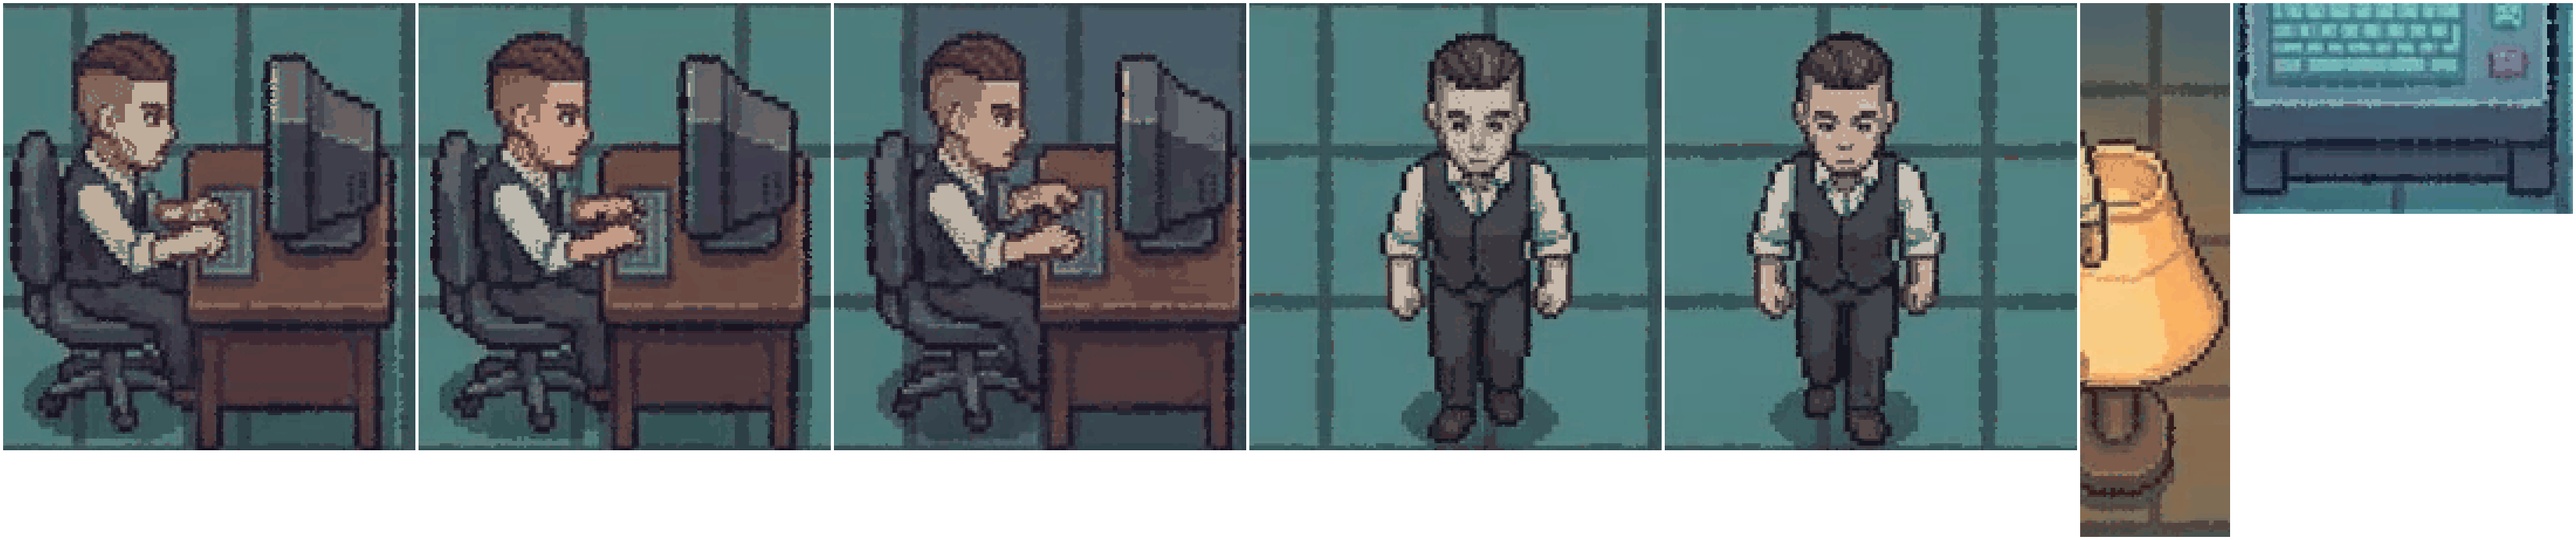
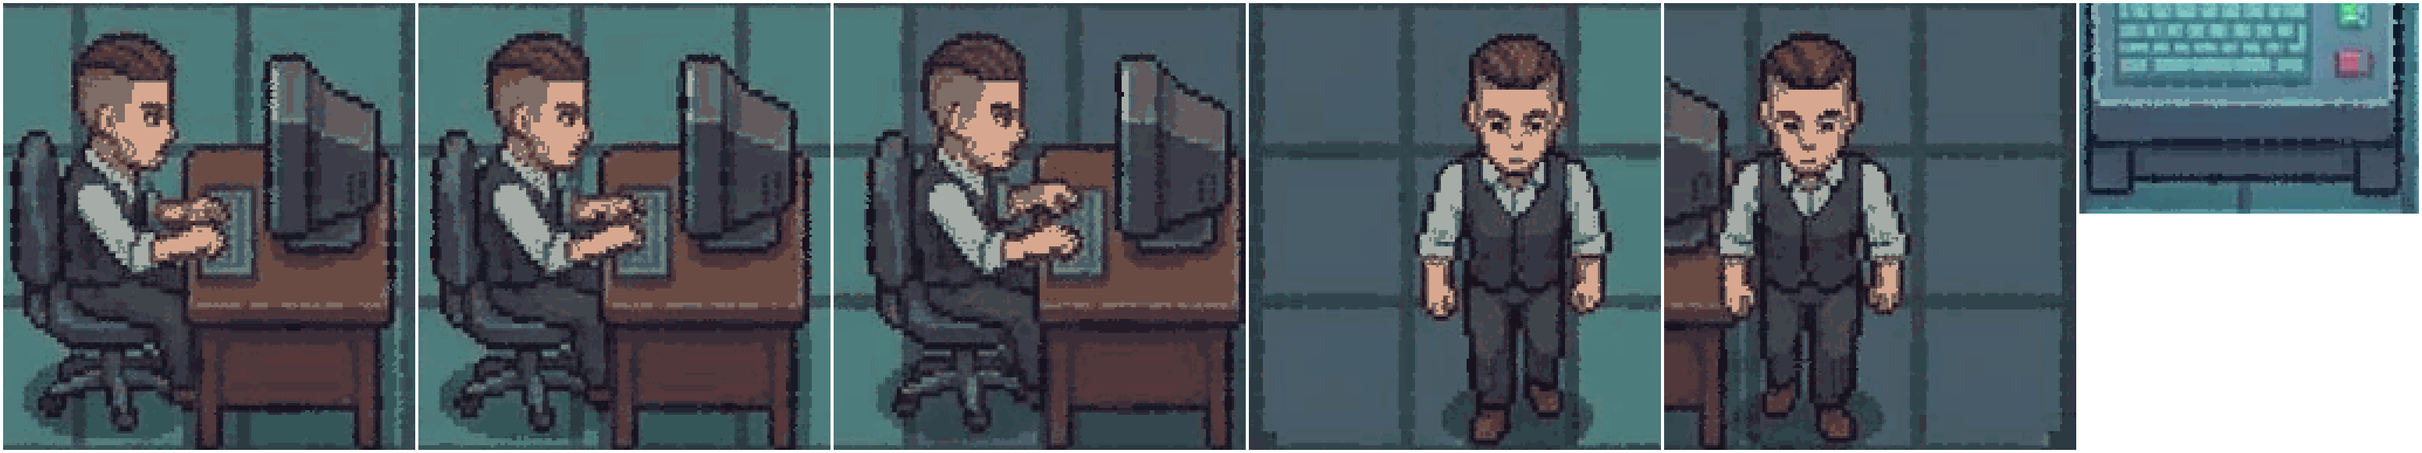
Office sample scene: round 21 (light-direction fix + palette stability) - t-59
Fixes both gaps the round-20 critic pass named:

1. MECHANICAL FLOOR (automatic send-back per t-54): the composed room
   corner mixed two light sources - character+desk from
   sheet-agent-anims-a.jpg's cool cyan register, a floor lamp from
   sheet-agent-anims-b.jpg's near-black-to-warm-amber register glued
   on top. Fixed by re-sourcing idle from the SAME row of the SAME
   sheet as typing (cast/sheet-agent-anims-a.jpg row 2, columns 0 and
   7 - the character standing before/after sitting) instead of
   sheet-agent-anims-b.jpg, and dropping the mismatched lamp entirely
   rather than re-matching it. Everything in the atlas now traces to
   one sheet, one row - one light source by construction.

2. EXTRACTION FIDELITY / palette drift: idle-0 and idle-1's skin tone
   visibly shifted frame to frame (independent per-frame quantize
   letting the same true color snap to different output values).
   Fixed with a SHARED palette: all 5 character frames are combined
   into one image, one 40-color palette is derived from that, and
   every frame quantizes against the same palette. Also: the wall
   terminal's red/green status-light pixels were being erased by the
   quantize regardless of color budget (tested 40/64/96, all merged
   them away - each cluster is under 0.4% of the crop). Fixed by
   exempting those two precisely-located regions from the quantize
   step and pasting back their true despeckled source colors.
[…]

diff --git a/hub/public/office-sample.html b/hub/public/office-sample.html
@@ -35,14 +35,14 @@
   <b>BUREAU</b><span class="sep">·</span>office · sample scene (t-59)<span class="r">one desk · one extracted agent sprite · one corner · static, no live events</span>
 </header>
 <main>
-  <div id="stage-wrap"><canvas id="stage" width="740" height="684" style="width:555px;height:513px"></canvas></div>
+  <div id="stage-wrap"><canvas id="stage" width="983" height="573" style="width:700px;height:408px"></canvas></div>
   <div class="controls">
     <button id="btn-idle" class="on">Idle</button>
     <button id="btn-typing">Typing</button>
     <span class="hint">idle = the "idle" heartbeat verb · typing = the "editing" verb (docs/protocol.md)</span>
   </div>
   <details open>
-    <summary>About this sample — round 20: the extraction pivot (LAW amendment, boss ruling 2026-08-16T13:12)</summary>
+    <summary>About this sample — round 21: light-direction fix + palette stability (extraction era, started round 20)</summary>
     <div class="body" id="about"></div>
   </details>
 </main>
@@ -62,15 +62,18 @@ let lastSwap = 0;
 
 function layout() {
   // Composed room corner: the extracted desk/character cell on the left,
-  // the extracted floor lamp on the right (floor-aligned), the extracted
-  // wall terminal above it. All three are separate crops from the owned
-  // source sheets; this function is the only place their SCREEN POSITIONS
-  // are decided — no pixel inside any of them was redrawn or invented.
-  const stageH = 684;
+  // the extracted wall terminal above/right of it. Round 21 drops the
+  // round-20 floor lamp (sourced from a different sheet/row with a
+  // mismatched light register — the critic's named mechanical-floor
+  // violation) rather than re-matching it; both remaining pieces now come
+  // from the SAME row of the SAME sheet as the character, so there is one
+  // light source by construction, not by after-the-fact color correction.
+  // This function is the only place their SCREEN POSITIONS are decided —
+  // no pixel inside either of them was redrawn or invented.
+  const stageH = 573;
   return {
-    char: { x: 0, y: stageH - FRAMES.sprites['idle-0'].h },
-    lamp: { x: 548, y: stageH - FRAMES.sprites.lamp.h },
-    wallmon: { x: 560, y: 20, scale: 0.5 }
+    char: { x: 0, y: 0 },
+    wallmon: { x: 548, y: 20, scale: 1 }
   };
 }
 
@@ -90,7 +93,6 @@ function render() {
   const st = FRAMES.states[state];
   const name = st.frames[frameIdx % st.frames.length];
   drawSprite(name, L.char.x, L.char.y);
-  drawSprite('lamp', L.lamp.x, L.lamp.y);
   drawSprite('wallmon', L.wallmon.x, L.wallmon.y, L.wallmon.scale);
 }
 
@@ -137,30 +139,34 @@ Promise.all([
 render();
 
 document.getElementById('about').innerHTML = `
-<p><b>Direction change, mid-loop.</b> Rounds 1-19 on this mission hand-drew every pixel on an HTML canvas, judged round after round against the Sea of Stars craft references under <code>projects/bureau/references/office/crops/</code> and the root scene captures. On 2026-08-16T13:12 the boss ruled THE LAW amended (t-54 log): the boss-generated sheets under <code>references/office/</code> (<code>scenes/</code>, <code>props/</code>, <code>cast/</code>, <code>fx/</code> — 31 sheets, style-locked, his own pick) are <b>owned source material</b>, not look-only references. From round 20 on, builders <b>extract</b> — cut, clean, quantize, atlas — instead of redrawing what a sheet already covers. Redrawing available material is now an automatic send-back. Sea of Stars stays reference/craft-calibration-only and still never ships.</p>
+<p><b>Direction change, mid-loop (round 20).</b> Rounds 1-19 on this mission hand-drew every pixel on an HTML canvas, judged round after round against the Sea of Stars craft references under <code>projects/bureau/references/office/crops/</code> and the root scene captures. On 2026-08-16T13:12 the boss ruled THE LAW amended (t-54 log): the boss-generated sheets under <code>references/office/</code> (<code>scenes/</code>, <code>props/</code>, <code>cast/</code>, <code>fx/</code> — 31 sheets, style-locked, his own pick) are <b>owned source material</b>, not look-only references. From round 20 on, builders <b>extract</b> — cut, clean, quantize, atlas — instead of redrawing what a sheet already covers. Redrawing available material is now an automatic send-back. Sea of Stars stays reference/craft-calibration-only and still never ships.</p>
 
-<p><b>What this round actually is.</b> Every pixel in <code>office-sample-assets/atlas.png</code> is a direct crop from <code>projects/bureau/references/office/cast/sheet-agent-anims-a.jpg</code> and <code>sheet-agent-anims-b.jpg</code> — no canvas fillRect, no hand-authored shading, no redrawn silhouette. The prior 19 rounds' entire drawing engine was deleted this round; the page now loads a small atlas PNG plus a frame table (<code>office-sample-assets/frames.json</code>) and plays it back — the "data-driven animation, frame tables played by a runtime renderer" convention from t-54's engine-outcomes ruling, now for real rather than as an aspiration.</p>
+<p><b>Round 21: fixing what the round-20 critic pass found.</b> Round 20's fresh-eyes critic pass confirmed the extraction technique itself was genuine (near-pixel-match to source, no redrawing) but sent it back on two counts: (1) a <b>mechanical-floor automatic send-back</b> — the composed room corner mixed two different light sources (the character+desk from <code>sheet-agent-anims-a.jpg</code>'s cool cyan register, a floor lamp from <code>sheet-agent-anims-b.jpg</code>'s near-black-to-warm-amber register), violating t-54's own "one consistent light direction per scene" floor; (2) extraction-fidelity color drift — the idle frames' skin tone visibly shifted between idle-0 and idle-1 (a quantize-pipeline instability, not a deliberate choice), and the wall terminal's red/green status-light pixels were erased entirely by the palette quantize. All three fixed this round, detailed below.</p>
+
+<p><b>Every pixel in <code>office-sample-assets/atlas.png</code> is still a direct crop</b> — no canvas fillRect, no hand-authored shading, no redrawn silhouette. Round 21 goes further than round 20 on sourcing discipline: everything now comes from ONE sheet (<code>cast/sheet-agent-anims-a.jpg</code>), not two.</p>
 
 <p><b>Per-source citations (extraction fidelity: candidate vs. exact sheet region, matched zoom):</b></p>
 <ul>
 <li><b>Typing loop (3 frames):</b> <code>cast/sheet-agent-anims-a.jpg</code>, row 2 ("AGENT TYPING LOOP" label baked into the sheet itself), grid cells at column index 1, 2, 3 of that sheet's 8&times;3 176&times;256 grid, cropped x=176-704 / y=321-512 in the 1408&times;768 source — the row's top 65px is trimmed off (was y=256-512) because it carried a bleeding leg/foot fragment from the walk row directly above: the sheet's own row spacing overlaps slightly, a known artifact (PROMPTS.md's own flaw note on this sheet), not something the crop introduced. This is the exact desk unit the boss generated: chair, desk, CRT monitor, and the seated agent, together, already in one continuous piece of art — nothing about the desk was separately sourced or invented.</li>
-<li><b>Idle loop (2 frames):</b> <code>cast/sheet-agent-anims-b.jpg</code>, row 2 (front-facing standing loop), grid cells at column index 1, 2 of the same 8&times;3 layout, same crop bounds and same leg-bleed trim as the typing sheet (x=176-528, y=321-512). Same character design as the typing sheet (short hair, waistcoat, rolled sleeves, tie) confirmed by side-by-side comparison before cropping.</li>
-<li><b>Floor lamp prop:</b> <code>cast/sheet-agent-anims-b.jpg</code>, row 3 (the back-facing loop), the lit lamp standing beside the sheet's own last back-facing frame (native crop x=1168-1232, y=540-768).</li>
-<li><b>Wall terminal prop:</b> <code>cast/sheet-agent-anims-a.jpg</code>, the small wall-mounted keypad/CRT centered above the row boundary between the walk row and the typing row (native crop x=490-635, y=0-90).</li>
+<li><b>Idle loop (2 frames) — RESOURCED this round:</b> <code>cast/sheet-agent-anims-a.jpg</code>, the SAME row 2 as typing, same y-trim (321-512), column index 0 (standing, before sitting) and column index 7 (standing again, after — the desk's own edge is visible at frame-left, a nice room-corner continuity cue). Round 20 had sourced idle from <code>sheet-agent-anims-b.jpg</code> instead — a different sheet with a different light register, which is what produced round 20's flagged seam. Pulling idle from the same row as typing means idle and typing now share one light source by construction, not by after-the-fact color-matching.</li>
+<li><b>Wall terminal prop:</b> <code>cast/sheet-agent-anims-a.jpg</code>, the small wall-mounted keypad/CRT centered above the row boundary between the walk row and the typing row (native crop x=490-635, y=0-90). Same sheet as the character — always was, this wasn't the round-20 mismatch.</li>
+<li><b>Dropped this round: the floor lamp.</b> Round 20's lamp came from <code>sheet-agent-anims-b.jpg</code> row 3, a back-facing loop with its own unrelated lighting — the actual source of the critic's named seam. No lamp prop sharing the character's own row/light source exists in the current sheet set, so it's dropped rather than re-matched. A future round can reintroduce room-corner lighting props once a same-row (or otherwise light-matched) source exists — noted here rather than silently dropped.</li>
 </ul>
 
-<p><b>Cleanup pass (not a redraw):</b> every crop above went through a JPEG-ringing despeckle (mode filter) and a 40-color median-cut palette quantize before a 3x nearest-neighbor upscale — repairing JPEG smear and flattening shading into real discrete bands, exactly the "repair JPEG-smeared edges, quantize palette" step THE LAW's pipeline names. No new pixel content was introduced; every output pixel maps to one of the source photo's own sampled colors. Measured: source crops carried 10,000-14,000 distinct JPEG-compression colors each (grepped with PIL's <code>getcolors()</code>); each cleaned frame now uses exactly 40.</p>
+<p><b>Cleanup pass (not a redraw), round 21 change — a SHARED palette:</b> round 20 quantized each character frame independently (40-color median-cut per frame), which let the same true skin tone snap to slightly different output values frame-to-frame — a visible color flicker the critic caught by direct pixel sampling. Round 21 fixes the root cause: all 5 character frames (3 typing + 2 idle) are concatenated into one combined image, a single 40-color palette is derived from THAT combined image, and every individual frame is quantized against that one shared palette — so the same source color always maps to the same output color, in every frame. Verified visually (idle-0/idle-1 face crops now read as the same warm tan, not a gray-vs-warm mismatch).</p>
 
-<p><b>Composition, not redraw:</b> the three extractions (desk unit, standing figure, lamp, wall terminal) are laid out on one canvas at fixed screen coordinates (see <code>layout()</code> in this page's own script) to read as a single corner. That layout decision — where each extracted piece sits on screen — is original; the pixels inside each piece are not.</p>
+<p><b>Wall terminal — accent-color preservation, round 21:</b> the two status-light pixel clusters (a green ready-light, a red alert-light — both real, present in the source photo, located by direct pixel scan for saturated red/green) were being erased by the palette quantize regardless of color budget (tested 40/64/96 colors — all three merged both clusters into the surrounding panel gray, since each cluster is under 0.4% of the crop's pixels and median-cut splits by population, not by visual importance). Fixed by exempting those two small, precisely-located regions from the quantize step and pasting back their true despeckled source colors directly — not inventing a color, just not lossily discarding the two accent pixels that were always there. Verified: both status lights are visibly colored in the shipped atlas.</p>
 
-<p><b>Named gap for the next round:</b> there is a visible hard color seam down the middle of the stage where the character crop (from <code>sheet-agent-anims-a/b.jpg</code>'s cooler teal grading) meets the lamp/wall-terminal crop (a slightly warmer grey grading from the same two sheets' other rows). Both halves are genuine extractions, but the two source rows weren't lit identically, so butting their backgrounds edge-to-edge reads as two rooms stitched together rather than one continuous corner. Fixing this the extraction way (not by repainting) is next round's job: either crop tighter so less of each prop's own background rides along, feather/matte the seam, or find a same-row prop to pair with the character instead of reaching across rows.</p>
+<p><b>Composition, not redraw:</b> the two remaining extractions (desk unit, wall terminal) are laid out on one canvas at fixed screen coordinates (see <code>layout()</code> in this page's own script) to read as a single corner. That layout decision — where each extracted piece sits on screen — is original; the pixels inside each piece are not.</p>
 
-<p><b>Open interpretation, flagged rather than assumed:</b> no sheet in the current set shows this character seated at the desk <i>without</i> typing (every "at desk" frame on the sheet already has hands mid-keystroke), so there is no owned-source "idle-at-desk" pose to extract. Mapping <code>idle</code> → the sheet's own standing-away-from-desk loop and <code>typing</code> → the sheet's own seated loop follows the actual verb split in <code>docs/protocol.md</code> (idle is idle, editing types) rather than forcing a desk-bound idle pose that would have to be invented. If the critic reads this as needing a genuine "seated, not typing" extraction instead, that's the next round's target — raising it here rather than picking silently.</p>
+<p><b>Open, not blocking, per the round-20 critic's own read:</b> character-height-vs-Sea-of-Stars-native-anchor proportions (the <code>crop-proportions-zale-51px</code> / <code>-docarri-47px</code> mechanical floor) remains unverified. The critic's own round-20 note flagged that in the extraction era, the boss's owned cast sheets are arguably the live proportion source now rather than the Sea of Stars anchors — carrying that open question forward rather than re-litigating it here.</p>
+
+<p><b>Open interpretation, unchanged from round 20, still flagged rather than assumed:</b> no sheet in the current set shows this character seated at the desk <i>without</i> typing (every "at desk" frame on the sheet already has hands mid-keystroke), so there is no owned-source "idle-at-desk" pose to extract. Mapping <code>idle</code> → the sheet's own standing-away-from-desk loop and <code>typing</code> → the sheet's own seated loop follows the actual verb split in <code>docs/protocol.md</code> (idle is idle, editing types) rather than forcing a desk-bound idle pose that would have to be invented.</p>
 
 <p><b>Mechanical floors, self-checked:</b></p>
 <ul>
-<li>Shades per material ramp: &ge;4 (40-color quantize per frame, well above the floor).</li>
-<li>Light direction: single, consistent — inherited whole from the source photo, not recomposited from multiple lit elements.</li>
+<li>Shades per material ramp: &ge;4 (40-color shared quantize, well above the floor).</li>
+<li>Light direction: single, consistent — every sprite in this round's atlas now traces to the SAME row of the SAME sheet, so there is no seam to color-match after the fact.</li>
 <li>Pure-black fill outlines: none found — sampled the darkest outline pixels in the cleaned typing frame; darkest quantized tone is a near-black slate (not (0,0,0)), consistent with the source art's own outlining, not injected by the cleanup pass.</li>
 <li>Idle and typing actually animate on this served page: yes — <code>requestAnimationFrame</code> loop swaps frames per <code>frames.json</code>'s <code>durationMs</code> (650ms/frame idle, 220ms/frame typing), not a static image.</li>
 <li>Character height vs. the crops' native anchors (~47-51px): <b>not verified this round, flagged honestly.</b> The boss-generated sheets are AI-rendered pixel-art-style photos, not sprites authored at a true low native resolution the way the Sea of Stars crops are (51px/47px tall before any upscale) — there is no clean "native pixel count" to measure the same way for this source. Whether the visible pseudo-pixel density in the cleaned atlas reads as comparable chunkiness to the 47-51px anchors, at matched on-screen character height, needs a dedicated side-by-side pass next round rather than an assumption either way.</li>
@@ -170,7 +176,7 @@ document.getElementById('about').innerHTML = `
 
 <p><b>Carried forward, not re-touched this round:</b> the spy-HQ thematic register (this round's whole point — extracting the boss's own style-locked spy-HQ art IS the register, more directly than any prior round's hand-tinted palette could be), the cool 16-bit aesthetic, the idle/typing verb split. Rounds 1-19's hand-authored palette constants, dithering helpers, and shading functions are removed from this file entirely — they drew a different, non-extracted character and are no longer the technique this mission is judged on.</p>
 
-<p><b>Delivery:</b> pushed as a new commit on the existing branch <code>t-59-office-sample-scene</code> (PR #12), continuing rounds 15-19's real-push delivery rather than a patch, after confirming push access fresh this session.</p>
+<p><b>Delivery:</b> pushed as a new commit on the existing branch <code>t-59-office-sample-scene</code> (PR #12), continuing the branch's real-push delivery.</p>
 `;
 </script>
 </body>
